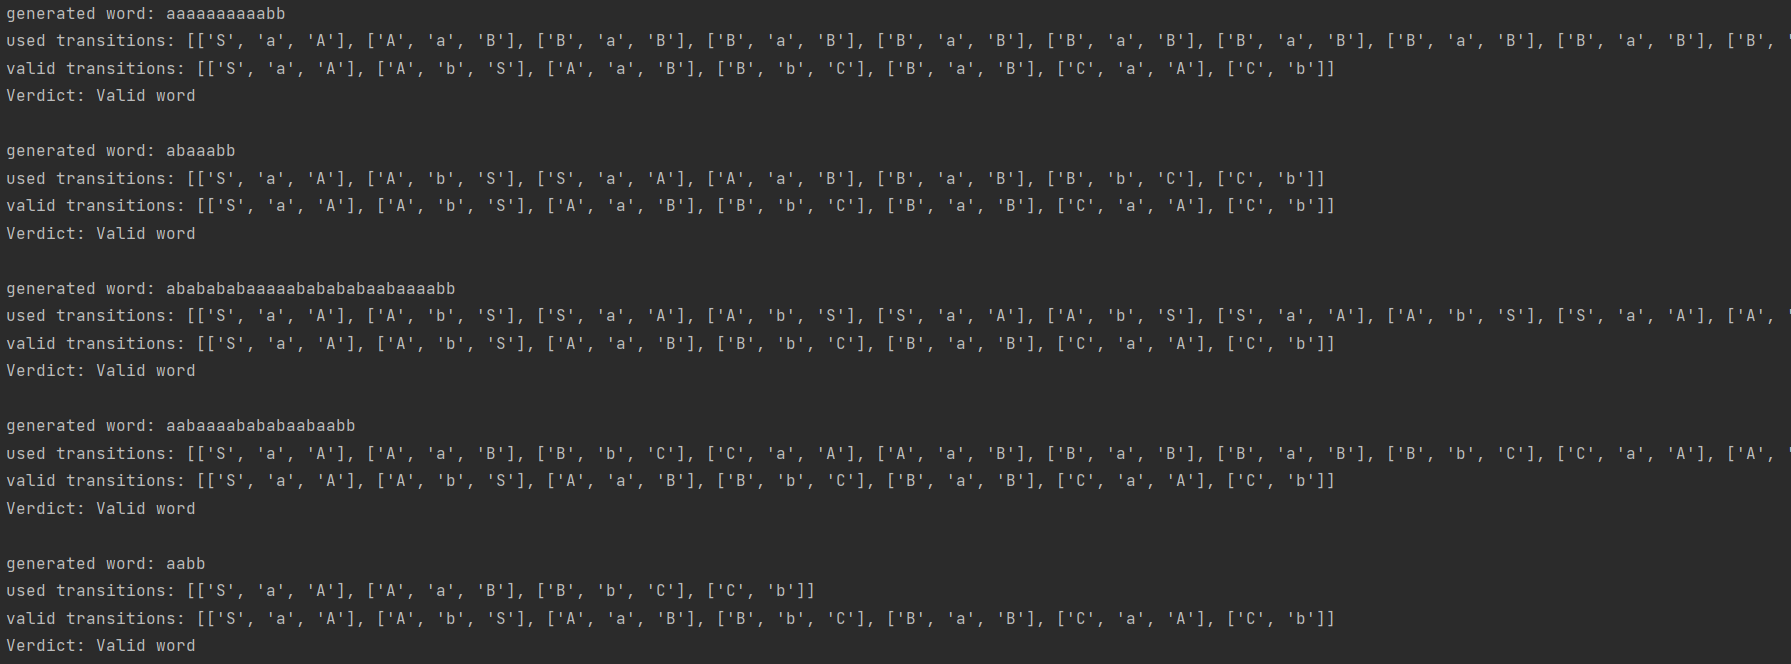
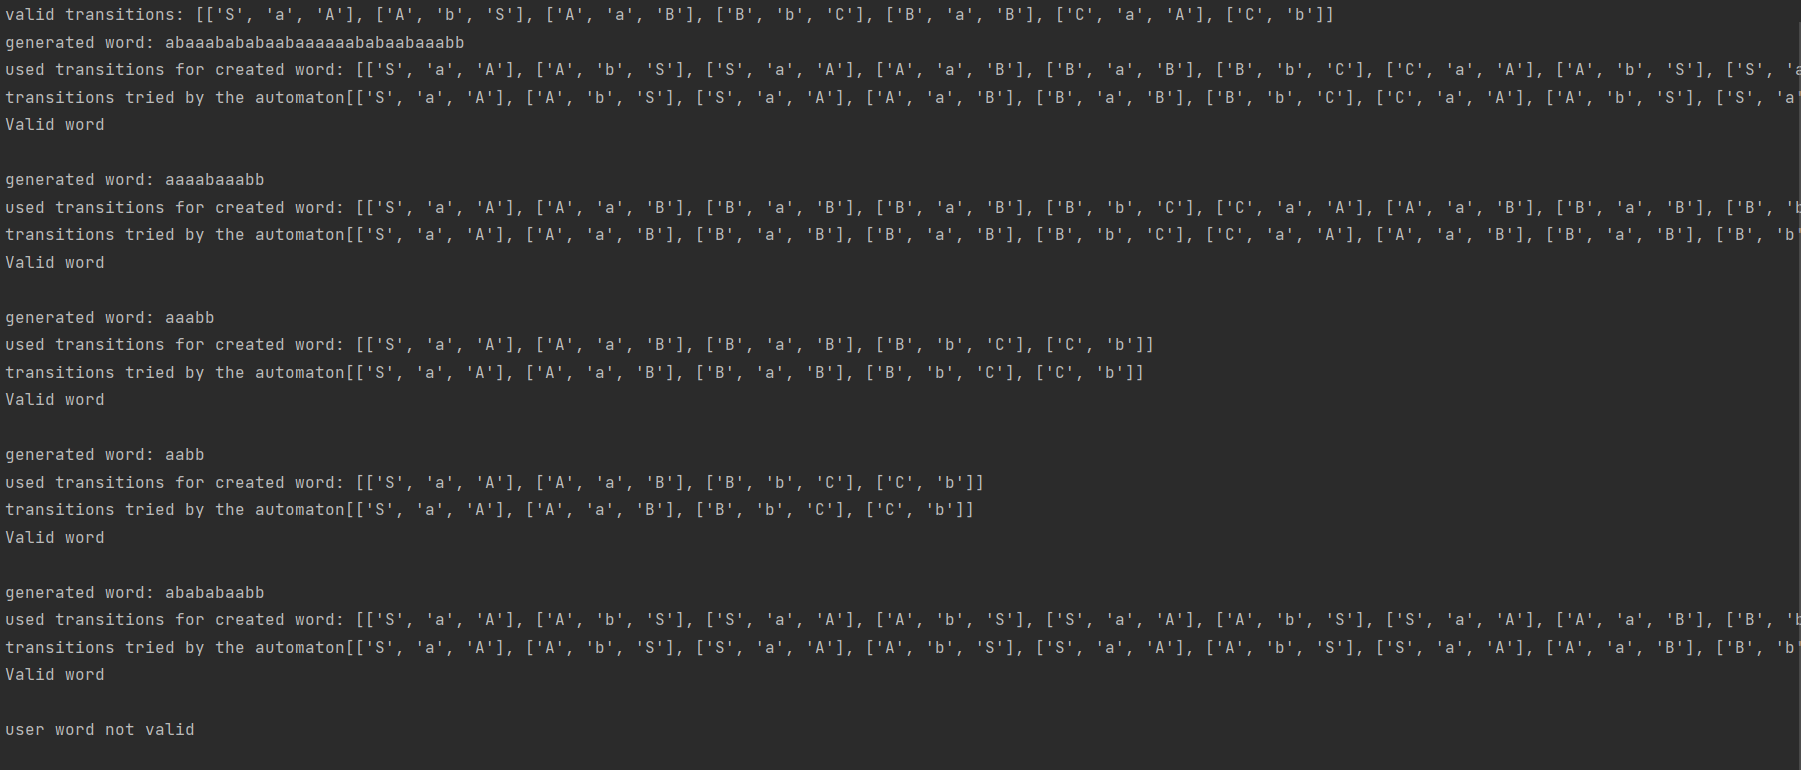
first commit

diff --git a/source code/finiteAutomata.py b/source code/finiteAutomata.py
@@ -1,10 +1,9 @@
 class FiniteAutomata:
-    def __init__(self,q0,F,sigma,delta,Q):
+    def __init__(self,q0,F,sigma,delta):
         self.q0 = q0
         self.F = F
         self.sigma = sigma
         self.delta = delta
-        self.Q = Q
 
     def checkWord(self,word):
         if word[0] not in self.q0:
@@ -17,8 +16,24 @@ class FiniteAutomata:
             if letter not in self.sigma:
                 return False
 
-        for transition in self.Q:
-            if transition not in self.delta:
+        transitions = []
+        for letter in word:
+            transitions.append(['',letter,''])
+
+        transitions[0][0] = 'S'
+        transitions[-1].pop(-1)
+
+        for i in range(len(transitions)-1):
+            for state in self.delta:
+                if transitions[i][0]==state[0] and transitions[i][1]==state[1]:
+                    transitions[i][2]=state[2]
+                    transitions[i+1][0]=state[2]
+                    break
+            if transitions[i][-1]=='':
                 return False
 
+
+        print(f'transitions tried by the automaton{transitions}')
+
         return True
+

diff --git a/source code/Grammar.py b/source code/Grammar.py
@@ -27,7 +27,8 @@ class RegularGrammar:
             self.word_list.append(aux)
         self.word_list=self.word_list[1:]
         print(f'generated word: {self.word}')
-        print(f'used transitions: {self.word_list}')
+        print(f'used transitions for created word: {self.word_list}')
+        return self.word
 
 
     def ConvertFA(self):
@@ -55,9 +56,11 @@ class RegularGrammar:
         automaton = FiniteAutomata(initial_states,
                                    final_states,
                                    self.alphabet,
-                                   transition_functions,
-                                   self.word_list)
+                                   transition_functions)
+        return automaton
+
         print('Verdict: ',end='')
+
         if automaton.checkWord(self.word):
             print('Valid word')
         else:

diff --git a/source code/main.py b/source code/main.py
@@ -1,4 +1,5 @@
 from Grammar import RegularGrammar
+from finiteAutomata import FiniteAutomata
 
 vn = ['S','A','B','C']
 vt = ['a','b']
@@ -21,9 +22,17 @@ p = {
 a= vt
 '''
 new_grammar = RegularGrammar(vn,vt,p,a)
+new_automaton = new_grammar.ConvertFA()
 
 
 for i in range(5):
-    new_grammar.GenerateWord()
-    new_grammar.ConvertFA()
+    word = new_grammar.GenerateWord()
+    if new_automaton.checkWord(word):
+        print('Valid word')
     print()
+
+user_word = 'abbbbaaaabbb'
+if new_automaton.checkWord(user_word):
+    print('user word is valid')
+else:
+    print('user word not valid')

diff --git a/Reports/Report1.md b/Reports/Report1.md
@@ -58,20 +58,21 @@ The ConvertFA method helps turning the grammar, together with its transitions in
 typical attributes (finite set of states, alphabet, transition set, initial states, and accepting states)
 
 The Finite Automata class contains a simple method that checks whether the word is valid. It basically checks the final 
-initial states, the alphabet used in the word, and most important if the transitions by which the word was obtained are
-valid, and finally providing feedback whether the word itself is legal regarding the provided grammar laws.
+initial states, the alphabet used in the word, and most important if the word can be obtained by the transitions layed 
+out from the grammar.
 
 The transitions were switched however, from dictionaries to simple lists, for more comfortable use, and because of
-necessary key duplication.
+necessary key duplication, as well as the algorithm for validating words.
 
 ---
 
 ## Conclusions / Screenshots / Results
 
 In the end, the created program proved itself capable of generating valid words from the regular grammar provided, and
-additionally to check them using an automaton with specific attributes for the grammar.
+additionally to check them using an automaton with specific attributes for the grammar. In this particular instance, 
+a user defined word was tested after generating the 5 valid ones.
 ### Practical results:
-![screenshot](images/lfafscreenshot.PNG)
+![screenshot](images/lfafscreenshot.png)
 
 An upside of the program is that is works for any given grammar, not only the given variant. For example variant 2 from 
 the same laboratory:
